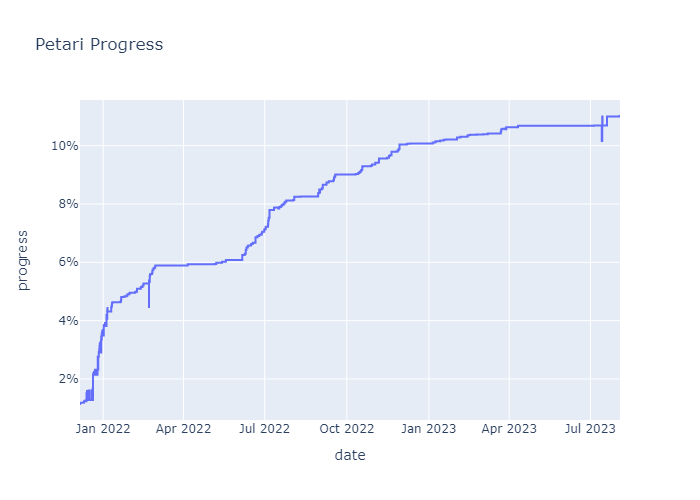
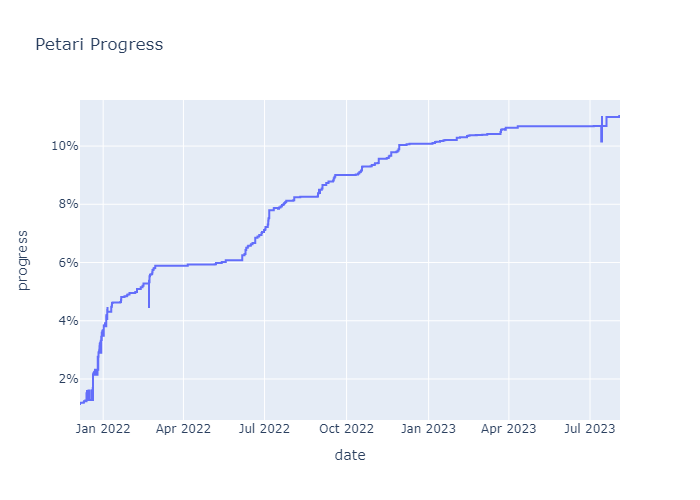
some progress on `GameSystemStationedArchiveLoader.o`

diff --git a/source/Game/System/GameSystemStationedArchiveLoader.cpp b/source/Game/System/GameSystemStationedArchiveLoader.cpp
@@ -1,0 +1,100 @@
+#include "Game/System/GameSystemStationedArchiveLoader.h"
+#include "Game/Util.h"
+
+bool ConditionIfIsNotPlayer::isExecute(const MR::StationedFileInfo *pInfo) const {
+    bool result = false;
+
+    if (pInfo->mLoadType != 2 && pInfo->mLoadType != 3) {
+        result = true;
+    }
+
+    return result;
+}
+
+ConditionUsePlayerHeap::ConditionUsePlayerHeap() {
+    mNapaHeap = nullptr;
+    mGDDRHeap = nullptr;
+    mIsDataMario = 1;
+}
+
+bool ConditionUsePlayerHeap::isExecute(const MR::StationedFileInfo *pInfo) const {
+    s32 type = 3;
+
+    if (mIsDataMario != 0) {
+        type = 2;
+    }
+
+    return pInfo->mLoadType == type;
+}
+
+JKRExpHeap* ConditionUsePlayerHeap::getProperHeap(const MR::StationedFileInfo *pInfo) const {
+    switch (pInfo->mHeapType) {
+        case 0:
+            return mNapaHeap;
+            break;
+        case 1:
+            return mGDDRHeap;
+            break;
+        case 2:
+            return nullptr;
+            break;
+    }
+
+    return nullptr;
+}
+
+PlayerHeapHolder::PlayerHeapHolder() {
+    mCondition = nullptr;
+    mNapaHeap = nullptr;
+    mGDDRHeap = nullptr;
+    mIsDataMario = true;
+    ConditionUsePlayerHeap* condition = new ConditionUsePlayerHeap();
+    mNapaHeap = PlayerHeapHolder::createHeap(0x500000, (JKRHeap*)MR::getStationedHeapNapa());
+    JKRExpHeap* gddr = PlayerHeapHolder::createHeap(0x500000, (JKRHeap*)MR::getStationedHeapGDDR3());
+    mGDDRHeap = gddr;
+    condition->mNapaHeap = mNapaHeap;
+    condition->mGDDRHeap = gddr;
+    mCondition = condition;
+    condition->mIsDataMario = mIsDataMario;
+}
+
+void PlayerHeapHolder::adjust() {
+    JKRExpHeap* napa = mNapaHeap;
+    if (!napa->isEmpty()) {
+        napa->alloc(0x10000, nullptr);
+    }
+
+    JKRExpHeap* gddr = mGDDRHeap;
+    if (!gddr->isEmpty()) {
+        gddr->alloc(0x10000, nullptr);
+    }
+
+    MR::adjustHeapSize(mNapaHeap, nullptr);
+    MR::adjustHeapSize(mGDDRHeap, nullptr);
+}
+
+void PlayerHeapHolder::dispose() {
+    MR::removeResourceAndFileHolderIfIsEqualHeap(mNapaHeap);
+    MR::removeResourceAndFileHolderIfIsEqualHeap(mGDDRHeap);
+
+    if (mNapaHeap->mSize != 0) {
+        mNapaHeap->freeAll();
+    }
+
+    if (mGDDRHeap->mSize != 0) {
+        mGDDRHeap->freeAll();
+    }
+}
+
+void PlayerHeapHolder::setIsDataMario(bool data) {
+    mIsDataMario = data;
+    mCondition->mIsDataMario = data;
+}
+
+JKRExpHeap* PlayerHeapHolder::createHeap(u32 size, JKRHeap* pParent) {
+    if (pParent->getMaxAllocatableSize(0x10) < size) {
+        size = -1;
+    }
+
+    return JKRExpHeap::create(size, pParent, true);
+}

diff --git a/include/Game/System/GameSystemStationedArchiveLoader.h b/include/Game/System/GameSystemStationedArchiveLoader.h
@@ -1,0 +1,43 @@
+#pragma once
+
+#include "Game/System/StationedArchiveLoader.h"
+#include <JSystem/JKernel/JKRHeap.h>
+#include <JSystem/JKernel/JKRExpHeap.h>
+
+class ConditionUsePlayerHeap : public StationedArchiveLoader::Condition {
+public:
+    ConditionUsePlayerHeap();
+
+    virtual ~ConditionUsePlayerHeap();
+    virtual bool isExecute(const MR::StationedFileInfo *) const;
+    virtual JKRExpHeap* getProperHeap(const MR::StationedFileInfo *) const;
+
+    JKRExpHeap* mNapaHeap;     // _4
+    JKRExpHeap* mGDDRHeap;     // _8
+    bool mIsDataMario;      // _C
+};
+
+class ConditionIfIsNotPlayer : public StationedArchiveLoader::Condition {
+public:
+    ConditionIfIsNotPlayer();
+
+    virtual ~ConditionIfIsNotPlayer();
+    virtual bool isExecute(const MR::StationedFileInfo *) const;
+    virtual JKRExpHeap* getProperHeap(const MR::StationedFileInfo *) const;
+
+};
+
+class PlayerHeapHolder {
+public:
+    PlayerHeapHolder();
+
+    static JKRExpHeap* createHeap(u32, JKRHeap *);
+    void adjust();
+    void dispose();
+    void setIsDataMario(bool);
+
+    ConditionUsePlayerHeap* mCondition;         // _0
+    JKRExpHeap* mNapaHeap;                      // _4
+    JKRExpHeap* mGDDRHeap;                      // _8
+    bool mIsDataMario;                          // _C
+};

diff --git a/include/Game/Util/FileUtil.h b/include/Game/Util/FileUtil.h
@@ -21,7 +21,7 @@ namespace MR {
     void* createAndAddArchive(void *, JKRHeap *, const char *);
     void getMountedArchiveAndHeap(const char *, JKRArchive **, JKRHeap **);
     void removeFileConsideringLanguage(const char *);
-    void removeResourceAndFileHOlderIfIsEqualHeap(JKRHeap *);
+    void removeResourceAndFileHolderIfIsEqualHeap(JKRHeap *);
     void decompressFileFromArchive(JKRArchive *, const char *, JKRHeap *, int);
     bool isLoadedFile(const char *);
     bool isMountedArchive(const char *);

diff --git a/libs/JSystem/include/JSystem/JKernel/JKRExpHeap.h b/libs/JSystem/include/JSystem/JKernel/JKRExpHeap.h
@@ -48,6 +48,7 @@ public:
     void* allocFromHead(u32, int);
     void* allocFromTail(u32);
     void* allocFromTail(u32, int);
+    bool isEmpty();
 
     static JKRExpHeap* create(void *, u32, JKRHeap *, bool);
     static JKRExpHeap* create(u32, JKRHeap *, bool);

diff --git a/include/Game/System/StationedArchiveLoader.h b/include/Game/System/StationedArchiveLoader.h
@@ -5,6 +5,7 @@
 #include <revolution.h>
 
 class StationedArchiveLoader {
+public:
     class Condition {
     public:
         virtual ~Condition();

diff --git a/docs/lib/System/GameSystemStationedArchiveLoader.md b/docs/lib/System/GameSystemStationedArchiveLoader.md
@@ -5,19 +5,19 @@
 | :white_check_mark: | Function is completed. 
 
 
-# 0 / 52 Completed -- (0.0%)
+# 9 / 52 Completed -- (17.307692307692307%)
 # GameSystemStationedArchiveLoader.o
 | Symbol | Decompiled? |
 | ------------- | ------------- |
-| `isExecute__22ConditionIfIsNotPlayerCFPCQ22MR17StationedFileInfo` | :x: |
-| `__ct__22ConditionUsePlayerHeapFv` | :x: |
-| `isExecute__22ConditionUsePlayerHeapCFPCQ22MR17StationedFileInfo` | :x: |
-| `getProperHeap__22ConditionUsePlayerHeapCFPCQ22MR17StationedFileInfo` | :x: |
-| `__ct__16PlayerHeapHolderFv` | :x: |
-| `adjust__16PlayerHeapHolderFv` | :x: |
-| `dispose__16PlayerHeapHolderFv` | :x: |
-| `setIsDataMario__16PlayerHeapHolderFb` | :x: |
-| `createHeap__16PlayerHeapHolderFUlP7JKRHeap` | :x: |
+| `isExecute__22ConditionIfIsNotPlayerCFPCQ22MR17StationedFileInfo` | :white_check_mark: |
+| `__ct__22ConditionUsePlayerHeapFv` | :white_check_mark: |
+| `isExecute__22ConditionUsePlayerHeapCFPCQ22MR17StationedFileInfo` | :white_check_mark: |
+| `getProperHeap__22ConditionUsePlayerHeapCFPCQ22MR17StationedFileInfo` | :white_check_mark: |
+| `__ct__16PlayerHeapHolderFv` | :white_check_mark: |
+| `adjust__16PlayerHeapHolderFv` | :white_check_mark: |
+| `dispose__16PlayerHeapHolderFv` | :white_check_mark: |
+| `setIsDataMario__16PlayerHeapHolderFb` | :white_check_mark: |
+| `createHeap__16PlayerHeapHolderFUlP7JKRHeap` | :white_check_mark: |
 | `__ct__32GameSystemStationedArchiveLoaderFv` | :x: |
 | `update__32GameSystemStationedArchiveLoaderFv` | :x: |
 | `isDone__32GameSystemStationedArchiveLoaderCFv` | :x: |

diff --git a/docs/lib/System.md b/docs/lib/System.md
@@ -31,7 +31,7 @@
 | [GameSystemFrameControl.o](https://github.com/shibbo/Petari/blob/master/docs/lib/System/GameSystemFrameControl.md) | 0.0% | 0 / 2 | 0.0% | :x: 
 | [GameSystemFunction.o](https://github.com/shibbo/Petari/blob/master/docs/lib/System/GameSystemFunction.md) | 0.0% | 0 / 48 | 0.0% | :x: 
 | [GameSystemObjHolder.o](https://github.com/shibbo/Petari/blob/master/docs/lib/System/GameSystemObjHolder.md) | 0.0% | 0 / 20 | 0.0% | :x: 
-| [GameSystemStationedArchiveLoader.o](https://github.com/shibbo/Petari/blob/master/docs/lib/System/GameSystemStationedArchiveLoader.md) | 0.0% | 0 / 52 | 0.0% | :x: 
+| [GameSystemStationedArchiveLoader.o](https://github.com/shibbo/Petari/blob/master/docs/lib/System/GameSystemStationedArchiveLoader.md) | 19.795221843003414% | 9 / 52 | 17.307692307692307% | :eight_pointed_black_star: 
 | [GameSystemSceneController.o](https://github.com/shibbo/Petari/blob/master/docs/lib/System/GameSystemSceneController.md) | 3.651266766020864% | 5 / 78 | 6.41025641025641% | :eight_pointed_black_star: 
 | [GameSystemResetAndPowerProcess.o](https://github.com/shibbo/Petari/blob/master/docs/lib/System/GameSystemResetAndPowerProcess.md) | 0.0% | 0 / 36 | 0.0% | :x: 
 | [HeapMemoryWatcher.o](https://github.com/shibbo/Petari/blob/master/docs/lib/System/HeapMemoryWatcher.md) | 100.0% | 19 / 19 | 100.0% | :white_check_mark: 

diff --git a/docs/PROGRESS.md b/docs/PROGRESS.md
@@ -22,5 +22,5 @@
 | [Scene](https://github.com/shibbo/Petari/blob/master/docs/lib/Scene.md) | 12.230081906180192% |
 | [Screen](https://github.com/shibbo/Petari/blob/master/docs/lib/Screen.md) | 3.9020947950289457% |
 | [Speaker](https://github.com/shibbo/Petari/blob/master/docs/lib/Speaker.md) | 49.743881616391576% |
-| [System](https://github.com/shibbo/Petari/blob/master/docs/lib/System.md) | 9.870408262691221% |
+| [System](https://github.com/shibbo/Petari/blob/master/docs/lib/System.md) | 10.294260937347754% |
 | [Util](https://github.com/shibbo/Petari/blob/master/docs/lib/Util.md) | 9.661178747499052% |
